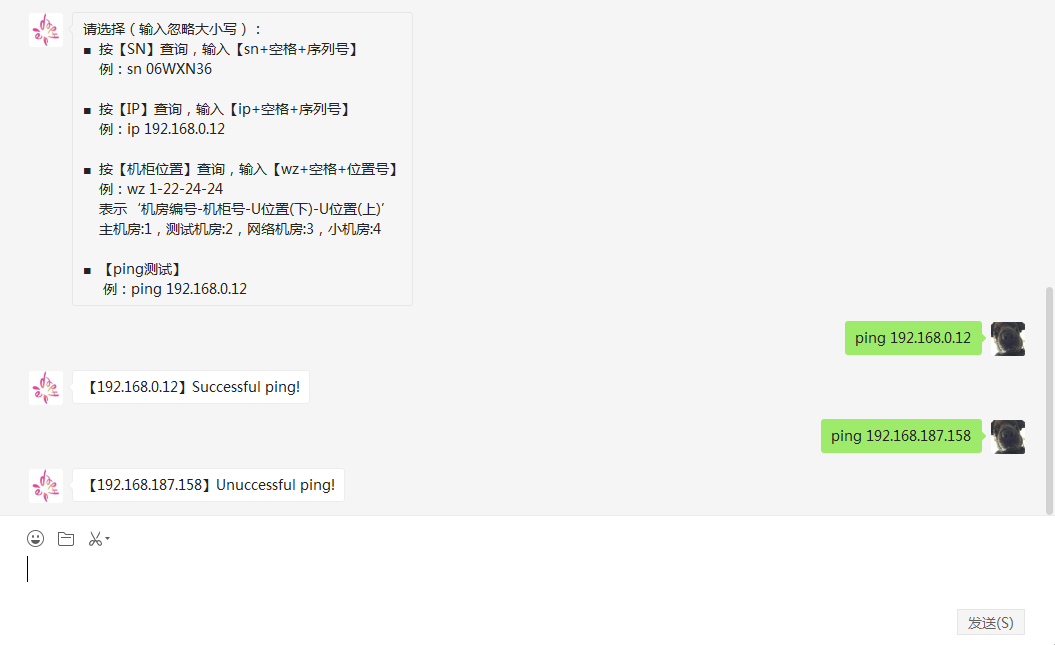
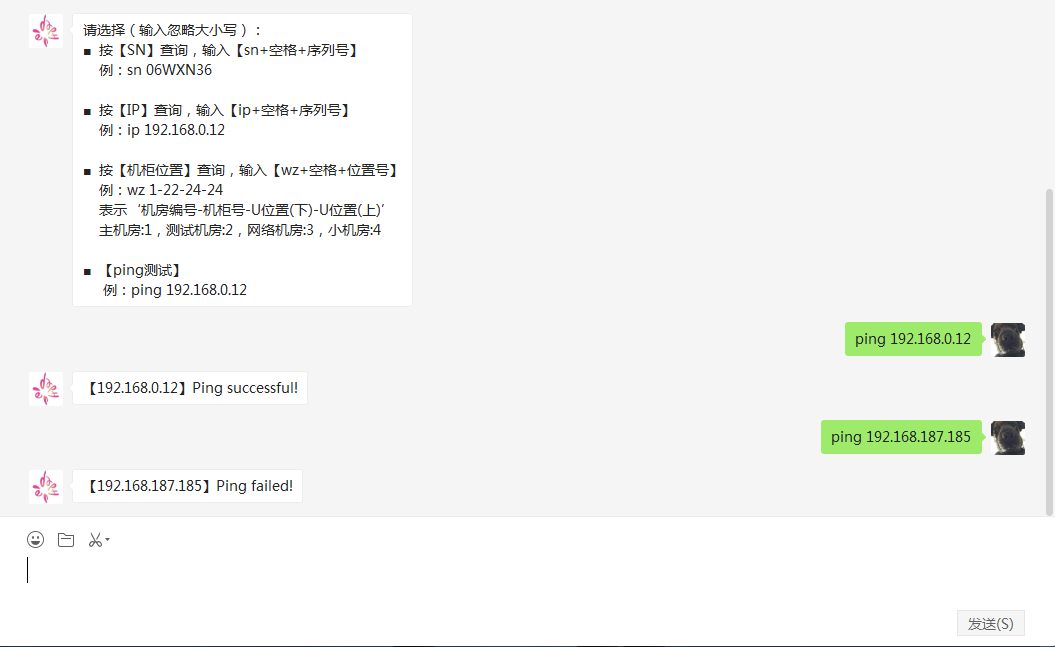
commit

diff --git a/boot/menu.py b/boot/menu.py
@@ -68,8 +68,8 @@ def Emperror(empid):
 
 
 def Pingsuccess(ip):
-    return "【%s】Successful ping!" % ip
+    return "【%s】Ping successful!" % ip
 
 
 def Pingfailed(ip):
-    return "【%s】Unuccessful ping!" % ip
+    return "【%s】Ping failed!" % ip
